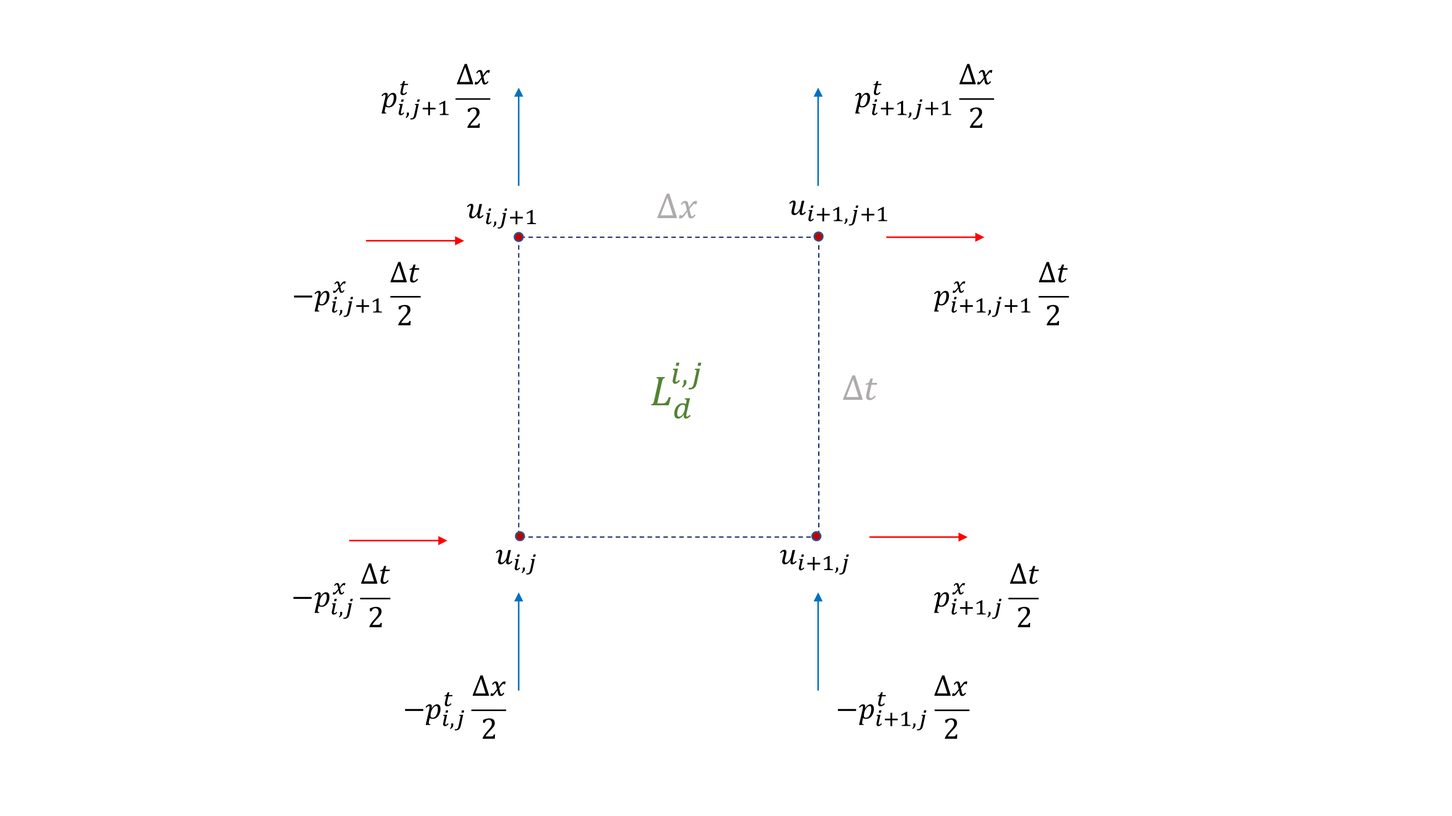
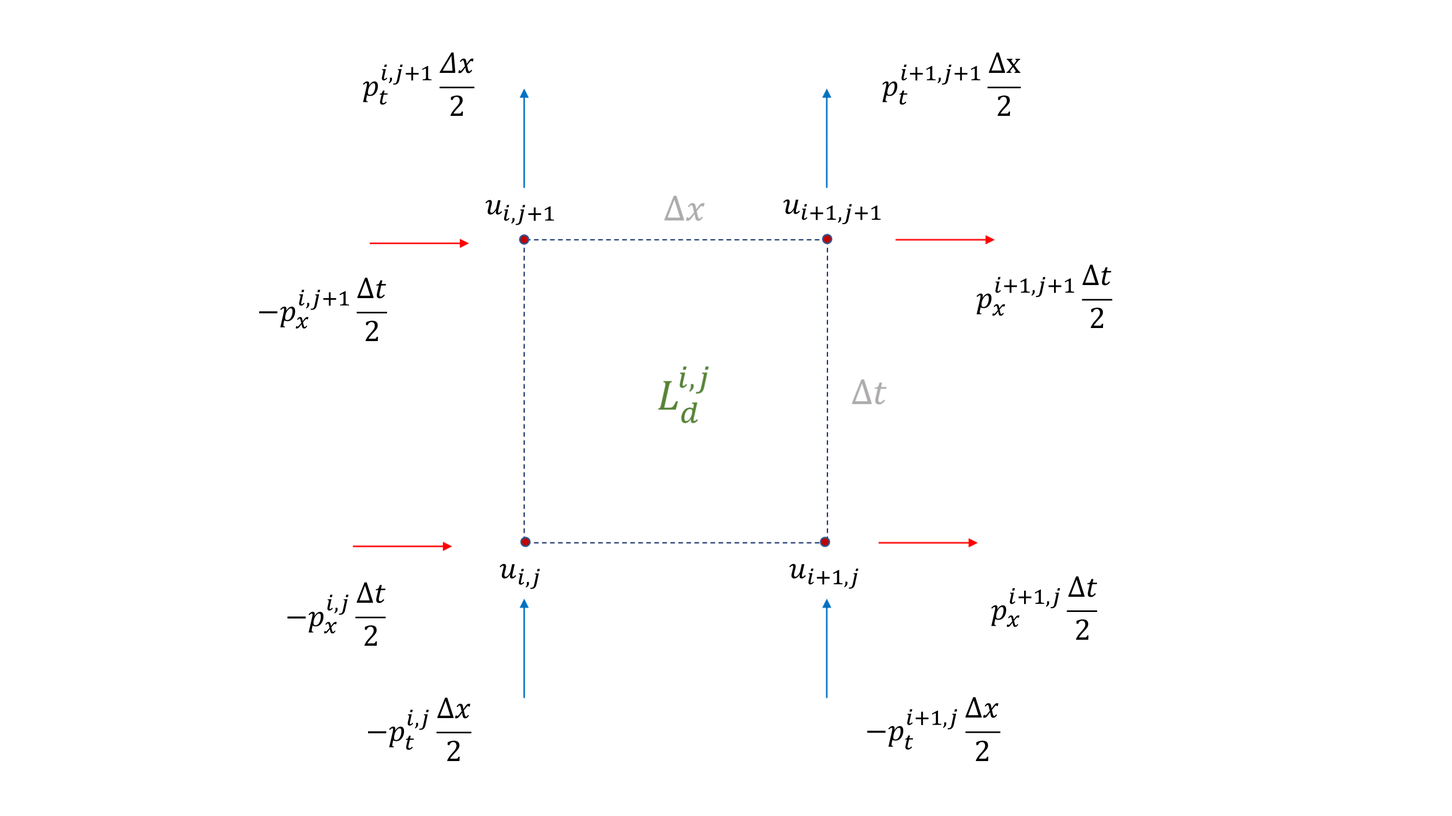
Deploying to gh-pages from @ THREAD-3-2/1D_wave_equation@191965a9c44e3f1aa769459d1a7cd37541ac7e47 🚀

diff --git a/searchindex.js b/searchindex.js
@@ -1,1 +1,1 @@
-Search.setIndex({"docnames": ["discretisation", "index", "introduction", "matlab", "results"], "filenames": ["discretisation.rst", "index.rst", "introduction.rst", "matlab.rst", "results.rst"], "titles": ["Space-time discretisation", "Documentation of <cite>1D wave equation</cite>", "Introduction", "MATLAB code", "Post-processing and results"], "terms": {"The": [0, 1, 2, 3], "domain": [0, 2], "x": [0, 2, 4], "i": [0, 1, 2, 3, 4], "rectangular": 0, "grid": 0, "x_d": 0, "n": 0, "step": 0, "length": [0, 2], "delta": 0, "": [0, 2], "k": [0, 2], "t": [0, 2, 4], "figur": [0, 4], "1": [0, 1, 2, 4], "represent": 0, "transvers": [0, 1, 2], "deform": [0, 2], "discret": [0, 3, 4], "lagrangian": [0, 1, 2, 3], "field": [0, 2], "thu": 0, "an": [0, 4], "index": [0, 1], "collect": 0, "u_d": 0, "u_": 0, "j": [0, 4], "mathbb": [0, 2], "r": [0, 2], "vert": 0, "0": [0, 2, 4], "dot": [0, 2, 4], "For": [0, 4], "each": [0, 4], "element": 0, "node": [0, 4], "square_": 0, "we": [0, 2], "have": 0, "l_d": 0, "left": [0, 2, 4], "right": [0, 2, 4], "abbrevi": 0, "l": [0, 2], "_d": 0, "trapezoid": [0, 1, 3], "quadratur": [0, 1, 3], "rule": [0, 1, 3], "us": [0, 1, 2, 3, 4], "approxim": [0, 1], "continu": 0, "action": [0, 2], "over": 0, "rectangl": 0, "Then": 0, "begin": [0, 2, 4], "align": [0, 2, 4], "frac": [0, 2, 4], "4": 0, "2": [0, 2, 4], "c": [0, 2, 4], "end": [0, 2, 4], "associ": [0, 2], "s_d": 0, "sum_": 0, "solut": 0, "satisfi": 0, "version": 0, "hamilton": [0, 2], "principl": [0, 2], "In": [0, 2, 4], "other": 0, "word": 0, "physic": 0, "trajectori": [0, 3], "ar": [0, 2, 3, 4], "stationari": [0, 2], "point": 0, "result": [0, 1], "euler": [0, 2, 3], "lagrang": [0, 2, 3], "equat": [0, 2, 3], "d_4": 0, "d_3": 0, "d_2": 0, "d_1": 0, "notic": [0, 4], "involv": 0, "all": 0, "contain": [0, 3], "3": 0, "At": 0, "initi": [0, 3], "need": 0, "taken": 0, "account": 0, "solv": [0, 2, 3], "problem": [0, 1, 4], "To": 0, "implement": 0, "import": [0, 2], "understand": 0, "mean": 0, "deriv": [0, 2], "d_k": 0, "relat": 0, "canon": [0, 1], "momenta": [0, 2, 3], "see": 0, "pictur": [0, 1], "below": 0, "our": 0, "case": [0, 1, 2], "can": [0, 2, 4], "interpret": 0, "p_": [0, 2], "p_t": [0, 2, 4], "current": 0, "follow": [0, 4], "hardcod": 0, "u": [0, 2, 4], "sin": 0, "pi": 0, "first": 0, "been": 0, "fix": [0, 2], "correspond": 0, "valu": 0, "latter": 0, "two": [0, 2], "set": [0, 4], "zero": 0, "second": [0, 1], "make": 0, "abov": [0, 4], "write": 0, "quad": 0, "where": [0, 2], "1d_wave_equ": 1, "matlab": 1, "code": 1, "dynam": 1, "dimension": 1, "It": [1, 4], "consist": 1, "order": [1, 2, 4], "pde": 1, "descript": 1, "thi": [1, 2, 3], "particular": [1, 4], "massiv": 1, "string": [1, 2], "integr": [1, 2], "function": [1, 2], "both": [1, 4], "time": [1, 2, 3, 4], "space": [1, 2, 3], "introduct": 1, "discretis": [1, 2, 4], "boundari": [1, 2, 3], "condit": [1, 2, 3], "post": [1, 3], "process": [1, 3], "wave_equ": 1, "modul": [1, 3], "search": 1, "page": 1, "defin": [2, 3], "tau": [2, 4], "configur": 2, "q": 2, "here": 2, "denot": 2, "total": [2, 4], "simul": [2, 4], "respect": [2, 4], "Its": 2, "densiti": [2, 3, 4], "written": 2, "v": 2, "kinet": 2, "energi": [2, 3, 4], "potenti": 2, "w": 2, "propag": 2, "speed": 2, "wave": [2, 3], "If": 2, "rho": 2, "modulu": 2, "elast": 2, "sqrt": 2, "int_": [2, 4], "d": 2, "dt": [2, 4], "appli": 2, "variat": [2, 3], "yield": 2, "1d": [2, 3], "ddot": 2, "report": 2, "multisymplect": 2, "As": 2, "standard": 2, "mechan": 2, "theori": 2, "exist": 2, "concept": 2, "These": 2, "quantiti": [2, 4], "partial": 2, "impos": 2, "after": 2, "primit": 3, "exampl": [3, 4], "just": 3, "show": 3, "how": 3, "document": 3, "sphinx": 3, "matlabdomain": 3, "extens": 3, "sourc": 3, "main": 3, "formul": 3, "paramet": 3, "materi": 3, "return": 3, "beam": [3, 4], "momentum": 3, "charg": [3, 4], "discretelag": 3, "discretizaion": 3, "timesolv": 3, "solver": 3, "conjug": 3, "evalu": [3, 4], "eval_ppt": 3, "legendr": [3, 4], "transform": [3, 4], "eval_pp": 3, "shown": 4, "term": 4, "e": 4, "system": 4, "dure": 4, "whole": 4, "h_": 4, "calcul": 4, "detemin": 4, "p_x": 4, "sum": 4, "limits_": 4, "good": 4, "behaviour": 4, "error": 4, "10": 4, "15": 4}, "objects": {"": [[3, 0, 0, "-", "wave_equation"], [3, 0, 1, "", "wave_equation"]], "wave_equation": [[3, 1, 1, "", "discreteLag"], [3, 1, 1, "", "eval_pps"], [3, 1, 1, "", "eval_ppt"], [3, 2, 1, "", "main"], [3, 1, 1, "", "timesolver"]]}, "objtypes": {"0": "mat:module", "1": "mat:script", "2": "mat:function"}, "objnames": {"0": ["mat", "module", "MATLAB module"], "1": ["mat", "script", "MATLAB script"], "2": ["mat", "function", "MATLAB function"]}, "titleterms": {"space": 0, "time": 0, "discretis": 0, "boundari": 0, "condit": 0, "document": 1, "1d": 1, "wave": 1, "equat": 1, "content": 1, "indic": 1, "tabl": 1, "introduct": 2, "descript": 2, "problem": 2, "canon": 2, "pictur": 2, "matlab": 3, "code": 3, "wave_equ": 3, "post": 4, "process": 4, "result": 4}, "envversion": {"sphinx.domains.c": 2, "sphinx.domains.changeset": 1, "sphinx.domains.citation": 1, "sphinx.domains.cpp": 6, "sphinx.domains.index": 1, "sphinx.domains.javascript": 2, "sphinx.domains.math": 2, "sphinx.domains.python": 3, "sphinx.domains.rst": 2, "sphinx.domains.std": 2, "sphinx": 56}})
+Search.setIndex({"docnames": ["discretisation", "index", "introduction", "matlab", "results"], "filenames": ["discretisation.rst", "index.rst", "introduction.rst", "matlab.rst", "results.rst"], "titles": ["Space-time discretisation", "Documentation of <cite>1D wave equation</cite>", "Introduction", "MATLAB code", "Post-processing and results"], "terms": {"The": [0, 1, 2, 3], "domain": [0, 2], "x": [0, 2, 4], "i": [0, 1, 2, 3, 4], "rectangular": 0, "grid": [0, 3], "x_d": 0, "n": 0, "step": [0, 3, 4], "length": [0, 2, 3], "delta": 0, "k": [0, 2], "t": [0, 2, 3, 4], "figur": [0, 4], "1": [0, 1, 2, 3, 4], "represent": 0, "transvers": [0, 1, 2, 3], "deform": [0, 2, 3], "discret": [0, 3, 4], "lagrangian": [0, 1, 2, 3], "field": [0, 2], "thu": 0, "an": [0, 4], "index": [0, 1], "collect": 0, "u_d": 0, "u_": 0, "j": [0, 4], "mathbb": [0, 2], "r": [0, 2, 3], "vert": 0, "0": [0, 2, 4], "dot": [0, 2, 4], "For": [0, 4], "each": [0, 3, 4], "element": 0, "node": [0, 3, 4], "square_": 0, "we": [0, 2], "have": 0, "l_d": 0, "left": [0, 2, 4], "right": [0, 2, 4], "abbrevi": 0, "l": [0, 2, 3, 4], "_d": 0, "trapezoid": [0, 1, 3], "quadratur": [0, 1, 3], "rule": [0, 1, 3], "us": [0, 1, 2, 3, 4], "approxim": [0, 1, 3], "continu": 0, "action": [0, 2], "over": [0, 3], "rectangl": 0, "Then": 0, "begin": [0, 2, 4], "align": [0, 2, 4], "frac": [0, 2, 4], "4": 0, "2": [0, 2, 4], "c": [0, 2, 4], "end": [0, 2, 4], "associ": [0, 2], "s_d": 0, "sum_": 0, "solut": [0, 3], "satisfi": 0, "version": 0, "hamilton": [0, 2], "": [0, 2], "principl": [0, 2], "In": [0, 2, 4], "other": 0, "word": 0, "physic": 0, "trajectori": 0, "ar": [0, 2, 3, 4], "stationari": [0, 2], "point": [0, 3], "result": [0, 1], "euler": [0, 2, 3], "lagrang": [0, 2, 3], "equat": [0, 2, 3], "d_4": 0, "d_3": 0, "d_2": 0, "d_1": 0, "notic": [0, 4], "involv": 0, "all": 0, "contain": [0, 3], "3": 0, "At": 0, "initi": [0, 3], "need": [0, 3], "taken": 0, "account": 0, "solv": [0, 2, 3], "problem": [0, 1, 4], "To": 0, "implement": 0, "import": [0, 2], "understand": 0, "mean": 0, "deriv": [0, 2, 3], "d_k": 0, "relat": 0, "canon": [0, 1, 3], "momenta": [0, 2, 3], "see": 0, "pictur": [0, 1], "below": 0, "our": 0, "case": [0, 1, 2], "can": [0, 2, 4], "interpret": 0, "p_x": [0, 2, 4], "p_t": [0, 2, 4], "current": 0, "follow": [0, 4], "hardcod": 0, "u": [0, 2, 3, 4], "sin": 0, "pi": 0, "first": 0, "been": 0, "fix": [0, 2], "correspond": 0, "valu": 0, "latter": 0, "two": [0, 2], "set": [0, 4], "zero": 0, "second": [0, 1], "make": 0, "abov": [0, 4], "write": 0, "quad": 0, "where": [0, 2, 4], "1d_wave_equ": [1, 3, 4], "matlab": [1, 4], "code": [1, 4], "dynam": [1, 3], "dimension": [1, 3], "It": [1, 4], "consist": 1, "order": [1, 2, 4], "pde": 1, "descript": 1, "thi": [1, 2, 3], "particular": [1, 4], "massiv": 1, "string": [1, 2, 3, 4], "integr": [1, 2, 3], "function": [1, 2, 3], "both": [1, 3, 4], "time": [1, 2, 3, 4], "space": [1, 2, 3], "introduct": 1, "discretis": [1, 2, 3, 4], "boundari": [1, 2, 3], "condit": [1, 2, 3], "post": 1, "process": 1, "wave_equ": 1, "search": 1, "page": 1, "defin": [2, 3], "tau": [2, 4], "configur": 2, "q": 2, "here": 2, "denot": 2, "total": [2, 4], "simul": [2, 4], "respect": [2, 3, 4], "Its": 2, "densiti": [2, 3, 4], "written": 2, "v": 2, "kinet": [2, 4], "energi": [2, 3, 4], "potenti": [2, 4], "w": [2, 3], "propag": 2, "speed": 2, "wave": [2, 3], "If": 2, "rho": [2, 3, 4], "modulu": [2, 4], "elast": [2, 4], "sqrt": 2, "int_": [2, 4], "dx": [2, 4], "dt": 2, "appli": 2, "variat": [2, 3], "yield": 2, "1d": [2, 3], "ddot": 2, "report": 2, "multisymplect": 2, "As": 2, "standard": 2, "mechan": 2, "theori": 2, "exist": 2, "concept": 2, "These": 2, "quantiti": [2, 4], "partial": 2, "impos": 2, "after": 2, "symbol": 3, "differenti": 3, "lead": 3, "long": 3, "run": 3, "math": 3, "toolbox": 3, "modul": 3, "sourc": 3, "main": 3, "formul": 3, "paramet": 3, "dtu_t0": 3, "u_t0": 3, "u_sl": 3, "u_s0": 3, "k_pot": [3, 4], "stiff": 3, "return": 3, "postprocess": 3, "hh": [3, 4], "pp": 3, "momentum": 3, "hh_error": [3, 4], "error": [3, 4], "charg": [3, 4], "discretelag": 3, "delta_": [3, 4], "delta_t": 3, "dsu": 3, "dtu": 3, "ld_ij": 3, "timesolv": 3, "uu_ij1_del": 3, "u_ij": 3, "u_i0j": 3, "u_i1j": 3, "u_ij0": 3, "uu": 3, "n_t": [3, 4], "n_": [3, 4], "solver": 3, "number": [3, 4], "interior": 3, "conjug": 3, "evalu": [3, 4], "eval_ppt": 3, "ld_i0j": 3, "ld_ij0": 3, "ld_i0j0": 3, "u_ij1": 3, "legendr": [3, 4], "transform": [3, 4], "size": 3, "pp_t": [3, 4], "eval_pp": 3, "u_i1j1": 3, "u_i0j1": 3, "pp_": [3, 4], "shown": 4, "term": 4, "e": 4, "system": 4, "beam": 4, "dure": 4, "whole": 4, "h_": 4, "calcul": 4, "detemin": 4, "text": 4, "sum": 4, "limits_": 4, "t_kin": 4, "v_pot": 4, "hh_charge_nod": 4, "hh_charge_elem": 4, "moreov": 4, "instead": 4, "comput": 4, "itself": 4, "its": 4, "hh_charg": 4, "exampl": 4, "good": 4, "behaviour": 4, "10": 4, "15": 4}, "objects": {"": [[3, 0, 0, "-", "wave_equation"], [3, 0, 1, "", "wave_equation"]], "wave_equation": [[3, 1, 1, "", "discreteLag"], [3, 1, 1, "", "eval_pps"], [3, 1, 1, "", "eval_ppt"], [3, 1, 1, "", "main"], [3, 1, 1, "", "timesolver"]]}, "objtypes": {"0": "mat:module", "1": "mat:function"}, "objnames": {"0": ["mat", "module", "MATLAB module"], "1": ["mat", "function", "MATLAB function"]}, "titleterms": {"space": 0, "time": 0, "discretis": 0, "boundari": 0, "condit": 0, "document": 1, "1d": 1, "wave": 1, "equat": 1, "content": 1, "indic": 1, "tabl": 1, "introduct": 2, "descript": 2, "problem": 2, "canon": 2, "pictur": 2, "matlab": 3, "code": 3, "wave_equ": 3, "post": 4, "process": 4, "result": 4}, "envversion": {"sphinx.domains.c": 2, "sphinx.domains.changeset": 1, "sphinx.domains.citation": 1, "sphinx.domains.cpp": 6, "sphinx.domains.index": 1, "sphinx.domains.javascript": 2, "sphinx.domains.math": 2, "sphinx.domains.python": 3, "sphinx.domains.rst": 2, "sphinx.domains.std": 2, "sphinx": 56}})

diff --git a/matlab.html b/matlab.html
@@ -35,8 +35,9 @@
             
   <section id="matlab-code">
 <span id="matlab"></span><h1>MATLAB code<a class="headerlink" href="#matlab-code" title="Permalink to this heading">¶</a></h1>
-<p>This primitive example just shows how to document MATLAB code with Sphinx
-using the <a class="reference external" href="https://github.com/sphinx-contrib/matlabdomain/blob/master/README.rst">matlabdomain extension</a>.</p>
+<p>1D_wave_equation is a MATLAB code for the dynamics of a 1-dimensional wave equation. The trapezoidal quadrature rule is used to approximate the integral of
+the Lagrangian function in both time and space. Symbolic differentiation is used for the derivation of the equations and this leads to long time running.
+Matlab Symbolic Math Toolbox is needed.</p>
 <section id="module-wave_equation">
 <span id="wave-equation"></span><h2>wave_equation<a class="headerlink" href="#module-wave_equation" title="Permalink to this heading">¶</a></h2>
 <p><code class="xref py py-mod docutils literal notranslate"><span class="pre">wave_equation</span></code> module contains the source code :</p>
@@ -46,44 +47,95 @@ using the <a class="reference external" href="https://github.com/sphinx-contrib/
 <dd><p>Variational formulation of the 1D wave equation.</p>
 <dl class="field-list simple">
 <dt class="field-odd">Parameters<span class="colon">:</span></dt>
-<dd class="field-odd"><p>initial conditions, boundary conditions, material parameter</p>
+<dd class="field-odd"><ul class="simple">
+<li><p><strong>dtu_t0</strong> (<span><code class="xref mat mat-obj docutils literal notranslate"><span class="pre">u_t0,</span></code></span>) – initial conditions</p></li>
+<li><p><strong>u_sl</strong> (<span><code class="xref mat mat-obj docutils literal notranslate"><span class="pre">u_s0,</span></code></span>) – boundary conditions</p></li>
+<li><p><strong>k_pot</strong> (<span><code class="xref mat mat-obj docutils literal notranslate"><span class="pre">l,</span> <span class="pre">rho,</span></code></span>) – string length, density and stiffness</p></li>
+</ul>
 </dd>
 <dt class="field-even">Returns<span class="colon">:</span></dt>
-<dd class="field-even"><p>discrete trajectory of the beam</p>
+<dd class="field-even"><p>discrete transverse deformations u</p>
 </dd>
-<dt class="field-odd">Post-processing<span class="colon">:</span></dt>
-<dd class="field-odd"><p>energy density, momentum density, energy charge</p>
+<dt class="field-odd">Postprocessing<span class="colon">:</span></dt>
+<dd class="field-odd"><p>HH energy density, PP momentum density and HH_error error in time of the energy charge</p>
 </dd>
 </dl>
 </dd></dl>
 
 <p>The discrete Lagrangian is defined in:</p>
-<dl class="mat script">
+<dl class="mat function">
 <dt class="sig sig-object mat" id="wave_equation.discreteLag">
-<span class="sig-prename descclassname"><span class="pre">wave_equation.</span></span><span class="sig-name descname"><span class="pre">discreteLag</span></span><a class="headerlink" href="#wave_equation.discreteLag" title="Permalink to this definition">¶</a></dt>
-<dd><p>Discretizaion of the Lagrangian: the trapezoidal quadrature rule is used
+<span class="sig-prename descclassname"><span class="pre">wave_equation.</span></span><span class="sig-name descname"><span class="pre">discreteLag</span></span><span class="sig-paren">(</span><em class="sig-param"><span class="pre">L</span></em>, <em class="sig-param"><span class="pre">delta_s</span></em>, <em class="sig-param"><span class="pre">delta_t</span></em>, <em class="sig-param"><span class="pre">dsu</span></em>, <em class="sig-param"><span class="pre">dtu</span></em><span class="sig-paren">)</span><a class="headerlink" href="#wave_equation.discreteLag" title="Permalink to this definition">¶</a></dt>
+<dd><p>Discretisation of the Lagrangian: the trapezoidal quadrature rule is used
 in time and space.</p>
+<dl class="field-list simple">
+<dt class="field-odd">Parameters<span class="colon">:</span></dt>
+<dd class="field-odd"><ul class="simple">
+<li><p><strong>L</strong> – Lagrangian function</p></li>
+<li><p><strong>delta_s,delta_t</strong> – space and time steps</p></li>
+<li><p><strong>dsu,dtu</strong> – derivative of u respect to space and time</p></li>
+</ul>
+</dd>
+<dt class="field-even">Returns<span class="colon">:</span></dt>
+<dd class="field-even"><p>Ld_ij discrete Lagrangian at each node of the space-time grid</p>
+</dd>
+</dl>
 </dd></dl>
 
 <p>The discrete Euler-Lagrange equations are solved in time and space in:</p>
-<dl class="mat script">
+<dl class="mat function">
 <dt class="sig sig-object mat" id="wave_equation.timesolver">
-<span class="sig-prename descclassname"><span class="pre">wave_equation.</span></span><span class="sig-name descname"><span class="pre">timesolver</span></span><a class="headerlink" href="#wave_equation.timesolver" title="Permalink to this definition">¶</a></dt>
+<span class="sig-prename descclassname"><span class="pre">wave_equation.</span></span><span class="sig-name descname"><span class="pre">timesolver</span></span><span class="sig-paren">(</span><em class="sig-param"><span class="pre">uu_ij1_DEL</span></em>, <em class="sig-param"><span class="pre">u_ij</span></em>, <em class="sig-param"><span class="pre">u_i0j</span></em>, <em class="sig-param"><span class="pre">u_i1j</span></em>, <em class="sig-param"><span class="pre">u_ij0</span></em>, <em class="sig-param"><span class="pre">uu</span></em>, <em class="sig-param"><span class="pre">n_t</span></em>, <em class="sig-param"><span class="pre">n_s</span></em><span class="sig-paren">)</span><a class="headerlink" href="#wave_equation.timesolver" title="Permalink to this definition">¶</a></dt>
 <dd><p>Time solver of the discrete Euler-Lagrange equations.</p>
+<dl class="field-list simple">
+<dt class="field-odd">Parameters<span class="colon">:</span></dt>
+<dd class="field-odd"><ul class="simple">
+<li><p><strong>u_ij</strong> – discrete transverse deformations</p></li>
+<li><p><strong>n_t,n_s</strong> – number of time and space steps</p></li>
+</ul>
+</dd>
+<dt class="field-even">Returns<span class="colon">:</span></dt>
+<dd class="field-even"><p>uu discrete transverse deformations at the interior points of the space-time grid (solution of the discrete Euler-Lagrange equations)</p>
+</dd>
+</dl>
 </dd></dl>
 
 <p>The conjugate momenta in time is evaluated in:</p>
-<dl class="mat script">
+<dl class="mat function">
 <dt class="sig sig-object mat" id="wave_equation.eval_ppt">
-<span class="sig-prename descclassname"><span class="pre">wave_equation.</span></span><span class="sig-name descname"><span class="pre">eval_ppt</span></span><a class="headerlink" href="#wave_equation.eval_ppt" title="Permalink to this definition">¶</a></dt>
+<span class="sig-prename descclassname"><span class="pre">wave_equation.</span></span><span class="sig-name descname"><span class="pre">eval_ppt</span></span><span class="sig-paren">(</span><em class="sig-param"><span class="pre">Ld_ij</span></em>, <em class="sig-param"><span class="pre">Ld_i0j</span></em>, <em class="sig-param"><span class="pre">Ld_ij0</span></em>, <em class="sig-param"><span class="pre">Ld_i0j0</span></em>, <em class="sig-param"><span class="pre">u_ij</span></em>, <em class="sig-param"><span class="pre">u_i0j</span></em>, <em class="sig-param"><span class="pre">u_i1j</span></em>, <em class="sig-param"><span class="pre">u_ij1</span></em>, <em class="sig-param"><span class="pre">u_ij0</span></em>, <em class="sig-param"><span class="pre">uu</span></em>, <em class="sig-param"><span class="pre">delta_s</span></em>, <em class="sig-param"><span class="pre">n_t</span></em>, <em class="sig-param"><span class="pre">n_s</span></em><span class="sig-paren">)</span><a class="headerlink" href="#wave_equation.eval_ppt" title="Permalink to this definition">¶</a></dt>
 <dd><p>Legendre transform.</p>
+<dl class="field-list simple">
+<dt class="field-odd">Parameters<span class="colon">:</span></dt>
+<dd class="field-odd"><ul class="simple">
+<li><p><strong>u_ij</strong> – discrete transverse deformations over the space-time grid, space and time steps</p></li>
+<li><p><strong>Ld_ij</strong> – discrete Lagrangians over the space-time grid</p></li>
+<li><p><strong>delta_t,n_t,n_s</strong> – time step size, and number of time and space steps</p></li>
+</ul>
+</dd>
+<dt class="field-even">Returns<span class="colon">:</span></dt>
+<dd class="field-even"><p>pp_t canonical momenta w.r.t. time evaluated at each node of the space-time grid</p>
+</dd>
+</dl>
 </dd></dl>
 
 <p>The conjugate momenta in space is evaluated in:</p>
-<dl class="mat script">
+<dl class="mat function">
 <dt class="sig sig-object mat" id="wave_equation.eval_pps">
-<span class="sig-prename descclassname"><span class="pre">wave_equation.</span></span><span class="sig-name descname"><span class="pre">eval_pps</span></span><a class="headerlink" href="#wave_equation.eval_pps" title="Permalink to this definition">¶</a></dt>
+<span class="sig-prename descclassname"><span class="pre">wave_equation.</span></span><span class="sig-name descname"><span class="pre">eval_pps</span></span><span class="sig-paren">(</span><em class="sig-param"><span class="pre">Ld_ij</span></em>, <em class="sig-param"><span class="pre">Ld_i0j</span></em>, <em class="sig-param"><span class="pre">Ld_ij0</span></em>, <em class="sig-param"><span class="pre">Ld_i0j0</span></em>, <em class="sig-param"><span class="pre">u_ij</span></em>, <em class="sig-param"><span class="pre">u_ij1</span></em>, <em class="sig-param"><span class="pre">u_ij0</span></em>, <em class="sig-param"><span class="pre">u_i1j1</span></em>, <em class="sig-param"><span class="pre">u_i1j</span></em>, <em class="sig-param"><span class="pre">u_i0j</span></em>, <em class="sig-param"><span class="pre">u_i0j1</span></em>, <em class="sig-param"><span class="pre">uu</span></em>, <em class="sig-param"><span class="pre">delta_t</span></em>, <em class="sig-param"><span class="pre">n_t</span></em>, <em class="sig-param"><span class="pre">n_s</span></em><span class="sig-paren">)</span><a class="headerlink" href="#wave_equation.eval_pps" title="Permalink to this definition">¶</a></dt>
 <dd><p>Legendre transform.</p>
+<dl class="field-list simple">
+<dt class="field-odd">Parameters<span class="colon">:</span></dt>
+<dd class="field-odd"><ul class="simple">
+<li><p><strong>u_ij</strong> – discrete transverse deformations over the space-time grid, space and time steps</p></li>
+<li><p><strong>Ld_ij</strong> – discrete Lagrangians over the space-time grid</p></li>
+<li><p><strong>delta_t,n_t,n_s</strong> – time step size, and number of time and space steps</p></li>
+</ul>
+</dd>
+<dt class="field-even">Returns<span class="colon">:</span></dt>
+<dd class="field-even"><p>pp_s canonical momenta w.r.t. space evaluated at each node of the space-time grid</p>
+</dd>
+</dl>
 </dd></dl>
 
 </section>

diff --git a/results.html b/results.html
@@ -48,19 +48,42 @@
 <li><p>energy charge, i.e. the total energy of the system evaluated in the discretised simulation time</p>
 <div class="math notranslate nohighlight">
 \[\begin{aligned}
-    H_{charge} \left( t \right) = \int_{0}^\tau \left[ \frac{1}{2} \left( u' ^2 + c^2 \dot{u}^2 \right) dt \right]
+    H_{charge} \left( t \right) = \int_{0}^l \left[ \frac{1}{2} \left( u' ^2 + c^2 \dot{u}^2 \right) dx \right]
 \end{aligned}\]</div>
 </li>
 </ul>
 <p>Both quantities are calculated by using the discrete Legendre transform. In the discrete settings, energy density and charge are respectively detemined as follow:</p>
 <div class="math notranslate nohighlight">
 \[\begin{aligned}
-    H_{density}^{i,j} = \frac{1}{2} \left( (p_t^{i,j})^2 + c^2 (p_x^{i,j})^2 \right)
+    H_{density}^{i,j} = \frac{1}{2} \left( (p_t^{i,j})^2 + c^2 (p_x^{i,j})^2 \right) \; \; \text{for} \; i=0 \dots l \text{,} \; j=0 \dots \tau
 \end{aligned}\]</div>
 <div class="math notranslate nohighlight">
 \[\begin{aligned}
-    H_{charge}^j \left( t \right) = \sum\limits_{j=0}^\tau \left[ \frac{1}{2} \left( (p_t^{j})^2 + c^2 (p_x^{j})^2 \right) \right]
+    H_{charge}^j = \sum\limits_{i=0}^l \left[ \frac{1}{2} \left( (p_t^{i})^2 + c^2 (p_x^{i})^2 \right) \right] \; \text{for} \; j=0 \dots \tau
 \end{aligned}\]</div>
+<p>In the <a class="reference external" href="https://github.com/THREAD-3-2/1D_wave_equation/tree/main/wave_equation">1D_wave_equation</a>,
+the energy density is evaluated as follow:</p>
+<div class="highlight-default notranslate"><div class="highlight"><pre><span></span><span class="k">for</span> <span class="n">j</span><span class="o">=</span><span class="mi">1</span><span class="p">:</span><span class="n">n_t</span>
+     <span class="k">for</span> <span class="n">i</span><span class="o">=</span><span class="mi">1</span><span class="p">:</span><span class="n">n_s</span>
+         <span class="n">T_kin</span><span class="p">(</span><span class="n">i</span><span class="p">,</span><span class="n">j</span><span class="p">)</span> <span class="o">=</span> <span class="mi">1</span><span class="o">/</span><span class="mi">2</span><span class="o">*</span><span class="n">rho</span><span class="o">*</span><span class="n">pp_t</span><span class="p">(</span><span class="n">i</span><span class="p">,</span><span class="n">j</span><span class="p">)</span><span class="o">^</span><span class="mi">2</span><span class="p">;</span>
+         <span class="n">V_pot</span><span class="p">(</span><span class="n">i</span><span class="p">,</span><span class="n">j</span><span class="p">)</span> <span class="o">=</span> <span class="mi">1</span><span class="o">/</span><span class="mi">2</span><span class="o">*</span><span class="n">k_pot</span><span class="o">*</span><span class="n">pp_s</span><span class="p">(</span><span class="n">i</span><span class="p">,</span><span class="n">j</span><span class="p">)</span><span class="o">^</span><span class="mi">2</span><span class="p">;</span>
+         <span class="n">HH</span><span class="p">(</span><span class="n">i</span><span class="p">,</span><span class="n">j</span><span class="p">)</span> <span class="o">=</span> <span class="n">T_kin</span><span class="p">(</span><span class="n">i</span><span class="p">,</span><span class="n">j</span><span class="p">)</span><span class="o">+</span><span class="n">V_pot</span><span class="p">(</span><span class="n">i</span><span class="p">,</span><span class="n">j</span><span class="p">);</span>
+         <span class="n">HH_charge_node</span><span class="p">(</span><span class="n">i</span><span class="p">,</span><span class="n">j</span><span class="p">)</span> <span class="o">=</span> <span class="mi">1</span><span class="o">/</span><span class="mi">2</span><span class="o">*</span><span class="p">(</span><span class="n">pp_t</span><span class="p">(</span><span class="n">i</span><span class="p">,</span><span class="n">j</span><span class="p">)</span><span class="o">^</span><span class="mi">2</span><span class="o">+</span><span class="n">k_pot</span><span class="o">/</span><span class="n">rho</span><span class="o">*</span><span class="n">pp_s</span><span class="p">(</span><span class="n">i</span><span class="p">,</span><span class="n">j</span><span class="p">)</span><span class="o">^</span><span class="mi">2</span><span class="p">);</span>
+         <span class="k">if</span> <span class="ow">not</span><span class="p">(</span><span class="n">i</span> <span class="o">==</span> <span class="mi">1</span><span class="p">)</span>
+         <span class="n">HH_charge_elem</span><span class="p">(</span><span class="n">i</span><span class="o">-</span><span class="mi">1</span><span class="p">,</span><span class="n">j</span><span class="p">)</span> <span class="o">=</span> <span class="mi">1</span><span class="o">/</span><span class="mi">2</span><span class="o">*</span><span class="n">delta_s</span><span class="o">*</span><span class="p">(</span><span class="n">HH_charge_node</span><span class="p">(</span><span class="n">i</span><span class="o">-</span><span class="mi">1</span><span class="p">,</span><span class="n">j</span><span class="p">)</span><span class="o">+</span><span class="n">HH_charge_node</span><span class="p">(</span><span class="n">i</span><span class="p">,</span><span class="n">j</span><span class="p">));</span>
+         <span class="n">end</span>
+     <span class="n">end</span>
+ <span class="n">end</span>
+</pre></div>
+</div>
+<p>where n_t is the number of time steps, n_s is the number of nodes, T_kin is the kinetic energy, V_pot is the potential energy, rho is the density and
+k_pot is the modulus of elasticity of the string. Moreover, instead of computing the energy charge itself, in the Matlab code its error during simulation is evaluated.</p>
+<div class="highlight-default notranslate"><div class="highlight"><pre><span></span><span class="k">for</span> <span class="n">j</span><span class="o">=</span><span class="mi">1</span><span class="p">:</span><span class="n">n_t</span>
+    <span class="n">HH_charge</span><span class="p">(</span><span class="n">j</span><span class="p">)</span> <span class="o">=</span> <span class="nb">sum</span><span class="p">(</span><span class="n">HH_charge_elem</span><span class="p">(:,</span><span class="n">j</span><span class="p">));</span>
+    <span class="n">HH_error</span><span class="p">(</span><span class="n">j</span><span class="p">)</span> <span class="o">=</span> <span class="n">HH_charge</span><span class="p">(</span><span class="mi">1</span><span class="p">)</span><span class="o">-</span><span class="n">HH_charge</span><span class="p">(</span><span class="n">j</span><span class="p">);</span>
+<span class="n">end</span>
+</pre></div>
+</div>
 <p>For the particular example problem, the above quantities are shown in Figure 1 and 2. It can be notice the good behaviour of the energy charge with an error in time of the order of <span class="math notranslate nohighlight">\(10^{-15}\)</span> in Figure 2.</p>
 <figure class="align-default" id="id1">
 <img alt="_images/energy_density.png" src="_images/energy_density.png" />

diff --git a/discretisation.html b/discretisation.html
@@ -37,7 +37,7 @@
             
   <section id="space-time-discretisation">
 <span id="discretization"></span><h1>Space-time discretisation<a class="headerlink" href="#space-time-discretisation" title="Permalink to this heading">¶</a></h1>
-<p>The space-time domain <span class="math notranslate nohighlight">\(X\)</span> is discretised as a rectangular grid <span class="math notranslate nohighlight">\(X_d\)</span> with <span class="math notranslate nohighlight">\(N\)</span> steps of length <span class="math notranslate nohighlight">\(\Delta s\)</span> in space and <span class="math notranslate nohighlight">\(K\)</span> steps of length <span class="math notranslate nohighlight">\(\Delta t\)</span> in time.</p>
+<p>The space-time domain <span class="math notranslate nohighlight">\(X\)</span> is discretised as a rectangular grid <span class="math notranslate nohighlight">\(X_d\)</span> with <span class="math notranslate nohighlight">\(N\)</span> steps of length <span class="math notranslate nohighlight">\(\Delta x\)</span> in space and <span class="math notranslate nohighlight">\(K\)</span> steps of length <span class="math notranslate nohighlight">\(\Delta t\)</span> in time.</p>
 <figure class="align-default" id="id1">
 <img alt="_images/spacetime_grid.png" src="_images/spacetime_grid.png" />
 <figcaption>
@@ -50,10 +50,10 @@ For each rectangular element with nodes <span class="math notranslate nohighligh
 Then:</p>
 <div class="math notranslate nohighlight">
 \[\begin{aligned}
-  L^{i,j}_d = \frac{\Delta s \Delta t}{4} \left\{ \left( \frac{u_{i,j+1}-u_{i,j}}{\Delta t} \right)^2 +
+  L^{i,j}_d = \frac{\Delta x \Delta t}{4} \left\{ \left( \frac{u_{i,j+1}-u_{i,j}}{\Delta t} \right)^2 +
   \left( \frac{u_{i+1,j+1}-u_{i+1,j}}{\Delta t} \right)^2
-  - c^2 \left[ \left( \frac{u_{i+1,j}-u_{i,j}}{\Delta s} \right)^2 +
-   \left( \frac{u_{i+1,j+1}-u_{i,j+1}}{\Delta s} \right)^2 \right] \right\}
+  - c^2 \left[ \left( \frac{u_{i+1,j}-u_{i,j}}{\Delta x} \right)^2 +
+   \left( \frac{u_{i+1,j+1}-u_{i,j+1}}{\Delta x} \right)^2 \right] \right\}
 \end{aligned}\]</div>
 <p>The associated discrete action is:</p>
 <div class="math notranslate nohighlight">
@@ -82,10 +82,10 @@ The resulting discrete Euler-Lagrange equations at node <span class="math notran
 <p>To implement these, it is important to understand the meaning of the derivatives <span class="math notranslate nohighlight">\(D_k L^{i,j}_d\)</span>, <span class="math notranslate nohighlight">\(k = 1, \dots, 4\)</span> and their relation to the canonical momenta, see the picture below. In our case, these derivatives can be interpreted as</p>
 <div class="math notranslate nohighlight">
 \[\begin{split}\begin{aligned}
-    D_1 L^{i,j}_d &amp;= -\frac{\Delta t}{2} p_s^{i,j} - \frac{\Delta s}{2} p_t^{i,j}\\
-    D_2 L^{i,j}_d &amp;= \frac{\Delta t}{2} p_s^{i+1,j} - \frac{\Delta s}{2} p_t^{i+1,j}\\
-    D_3 L^{i,j}_d &amp;= -\frac{\Delta t}{2} p_s^{i,j+1} + \frac{\Delta s}{2} p_t^{i,j+1}\\
-    D_4 L^{i,j}_d &amp;= \frac{\Delta t}{2} p_s^{i+1,j+1} + \frac{\Delta s}{2} p_t^{i+1,j+1}\\
+    D_1 L^{i,j}_d &amp;= -\frac{\Delta t}{2} p_x^{i,j} - \frac{\Delta x}{2} p_t^{i,j}\\
+    D_2 L^{i,j}_d &amp;= \frac{\Delta t}{2} p_x^{i+1,j} - \frac{\Delta x}{2} p_t^{i+1,j}\\
+    D_3 L^{i,j}_d &amp;= -\frac{\Delta t}{2} p_x^{i,j+1} + \frac{\Delta x}{2} p_t^{i,j+1}\\
+    D_4 L^{i,j}_d &amp;= \frac{\Delta t}{2} p_x^{i+1,j+1} + \frac{\Delta x}{2} p_t^{i+1,j+1}\\
 \end{aligned}\end{split}\]</div>
 <figure class="align-default" id="id3">
 <img alt="_images/momenta.png" src="_images/momenta.png" />
@@ -101,7 +101,7 @@ The resulting discrete Euler-Lagrange equations at node <span class="math notran
     u(0,t) &amp;= 0\\
     u(l,t) &amp;= 0
 \end{aligned}\end{split}\]</div>
-<p>To implement the first, all nodes <span class="math notranslate nohighlight">\(u_{i,0}\)</span> have been fixed to their corresponding values, <span class="math notranslate nohighlight">\(\sin(\pi i \Delta s)\)</span>, and for the latter two, <span class="math notranslate nohighlight">\(u_{0,j}\)</span> and <span class="math notranslate nohighlight">\(u_{N,j}\)</span> have been set to zero. To implement the second, we make use of the above interpretation to write and solve the equations,</p>
+<p>To implement the first, all nodes <span class="math notranslate nohighlight">\(u_{i,0}\)</span> have been fixed to their corresponding values, <span class="math notranslate nohighlight">\(\sin(\pi i \Delta x)\)</span>, and for the latter two, <span class="math notranslate nohighlight">\(u_{0,j}\)</span> and <span class="math notranslate nohighlight">\(u_{N,j}\)</span> have been set to zero. To implement the second, we make use of the above interpretation to write and solve the equations,</p>
 <div class="math notranslate nohighlight">
 \[\begin{aligned}
     D_2 L^{i-1,0}_d + D_1 L^{i,0}_d + \Delta s p_t^{i,0} = 0, \quad i = 1,\dots,N-1

diff --git a/introduction.html b/introduction.html
@@ -39,7 +39,7 @@
 <span id="id1"></span><h1>Introduction<a class="headerlink" href="#introduction" title="Permalink to this heading">¶</a></h1>
 <section id="description-of-the-problem">
 <h2>Description of the problem<a class="headerlink" href="#description-of-the-problem" title="Permalink to this heading">¶</a></h2>
-<p>The transverse deformation <span class="math notranslate nohighlight">\(u = u(s,t)\)</span> of the string is a function
+<p>The transverse deformation <span class="math notranslate nohighlight">\(u = u(x,t)\)</span> of the string is a function
 defined in the space-time domain <span class="math notranslate nohighlight">\(X = [0,l] \times [0,\tau]\)</span> to the configuration space <span class="math notranslate nohighlight">\(Q = \mathbb{R}\)</span>. Here <span class="math notranslate nohighlight">\(l, \tau \in \mathbb{R}\)</span> denote the length of the string and the total simulation time respectively. Its Lagrangian density can be written as:</p>
 <div class="math notranslate nohighlight">
 \[\begin{aligned}
@@ -51,7 +51,7 @@ w.r.t. space, and <span class="math notranslate nohighlight">\(c\)</span> is the
 The associated action functional is:</p>
 <div class="math notranslate nohighlight">
 \[\begin{aligned}
-                S[u]=\int_{0}^{\tau} {\int_{0}^{l} L(u(s,t),\dot{u}(s,t),u'(s,t)) ds}dt
+                S[u]=\int_{0}^{\tau} {\int_{0}^{l} L(u(x,t),\dot{u}(x,t),u'(x,t)) dx}dt
 \end{aligned}\]</div>
 <p>Applying Hamilton’s principle of stationary action with fixed variations at the boundary of <span class="math notranslate nohighlight">\(X\)</span> yields the Euler-Lagrange equations of the string, the 1D wave equation:</p>
 <div class="math notranslate nohighlight">
@@ -66,7 +66,7 @@ The associated action functional is:</p>
 <div class="math notranslate nohighlight">
 \[\begin{split}\begin{align*}
    &amp;p_t = \frac{\partial L}{\partial \dot{u}}(u,\dot{u},u') = \dot{u},\\
-   &amp;p_s = \frac{\partial L}{\partial u'}(u,\dot{u},u') = -c^2 u'.
+   &amp;p_x = \frac{\partial L}{\partial u'}(u,\dot{u},u') = -c^2 u'.
 \end{align*}\end{split}\]</div>
 <p>These will be important in order to impose the boundary conditions after the discretisation.</p>
 </section>

diff --git a/genindex.html b/genindex.html
@@ -35,14 +35,45 @@
 <h1 id="index">Index</h1>
 
 <div class="genindex-jumpbox">
- <a href="#M"><strong>M</strong></a>
+ <a href="#D"><strong>D</strong></a>
+ | <a href="#E"><strong>E</strong></a>
+ | <a href="#M"><strong>M</strong></a>
+ | <a href="#T"><strong>T</strong></a>
  | <a href="#W"><strong>W</strong></a>
  
 </div>
+<h2 id="D">D</h2>
+<table style="width: 100%" class="indextable genindextable"><tr>
+  <td style="width: 33%; vertical-align: top;"><ul>
+      <li><a href="matlab.html#wave_equation.discreteLag">discreteLag() (in module wave_equation)</a>
+</li>
+  </ul></td>
+</tr></table>
+
+<h2 id="E">E</h2>
+<table style="width: 100%" class="indextable genindextable"><tr>
+  <td style="width: 33%; vertical-align: top;"><ul>
+      <li><a href="matlab.html#wave_equation.eval_pps">eval_pps() (in module wave_equation)</a>
+</li>
+  </ul></td>
+  <td style="width: 33%; vertical-align: top;"><ul>
+      <li><a href="matlab.html#wave_equation.eval_ppt">eval_ppt() (in module wave_equation)</a>
+</li>
+  </ul></td>
+</tr></table>
+
 <h2 id="M">M</h2>
 <table style="width: 100%" class="indextable genindextable"><tr>
   <td style="width: 33%; vertical-align: top;"><ul>
       <li><a href="matlab.html#wave_equation.main">main() (in module wave_equation)</a>
+</li>
+  </ul></td>
+</tr></table>
+
+<h2 id="T">T</h2>
+<table style="width: 100%" class="indextable genindextable"><tr>
+  <td style="width: 33%; vertical-align: top;"><ul>
+      <li><a href="matlab.html#wave_equation.timesolver">timesolver() (in module wave_equation)</a>
 </li>
   </ul></td>
 </tr></table>

diff --git a/index.html b/index.html
@@ -64,7 +64,6 @@ the Lagrangian function in both time and space.</p>
 <h2>Indices and tables<a class="headerlink" href="#indices-and-tables" title="Permalink to this heading">¶</a></h2>
 <ul class="simple">
 <li><p><a class="reference internal" href="genindex.html"><span class="std std-ref">Index</span></a></p></li>
-<li><p><a class="reference external" href="mat-modindex.html">Module Index</a></p></li>
 <li><p><a class="reference internal" href="search.html"><span class="std std-ref">Search Page</span></a></p></li>
 </ul>
 </section>
